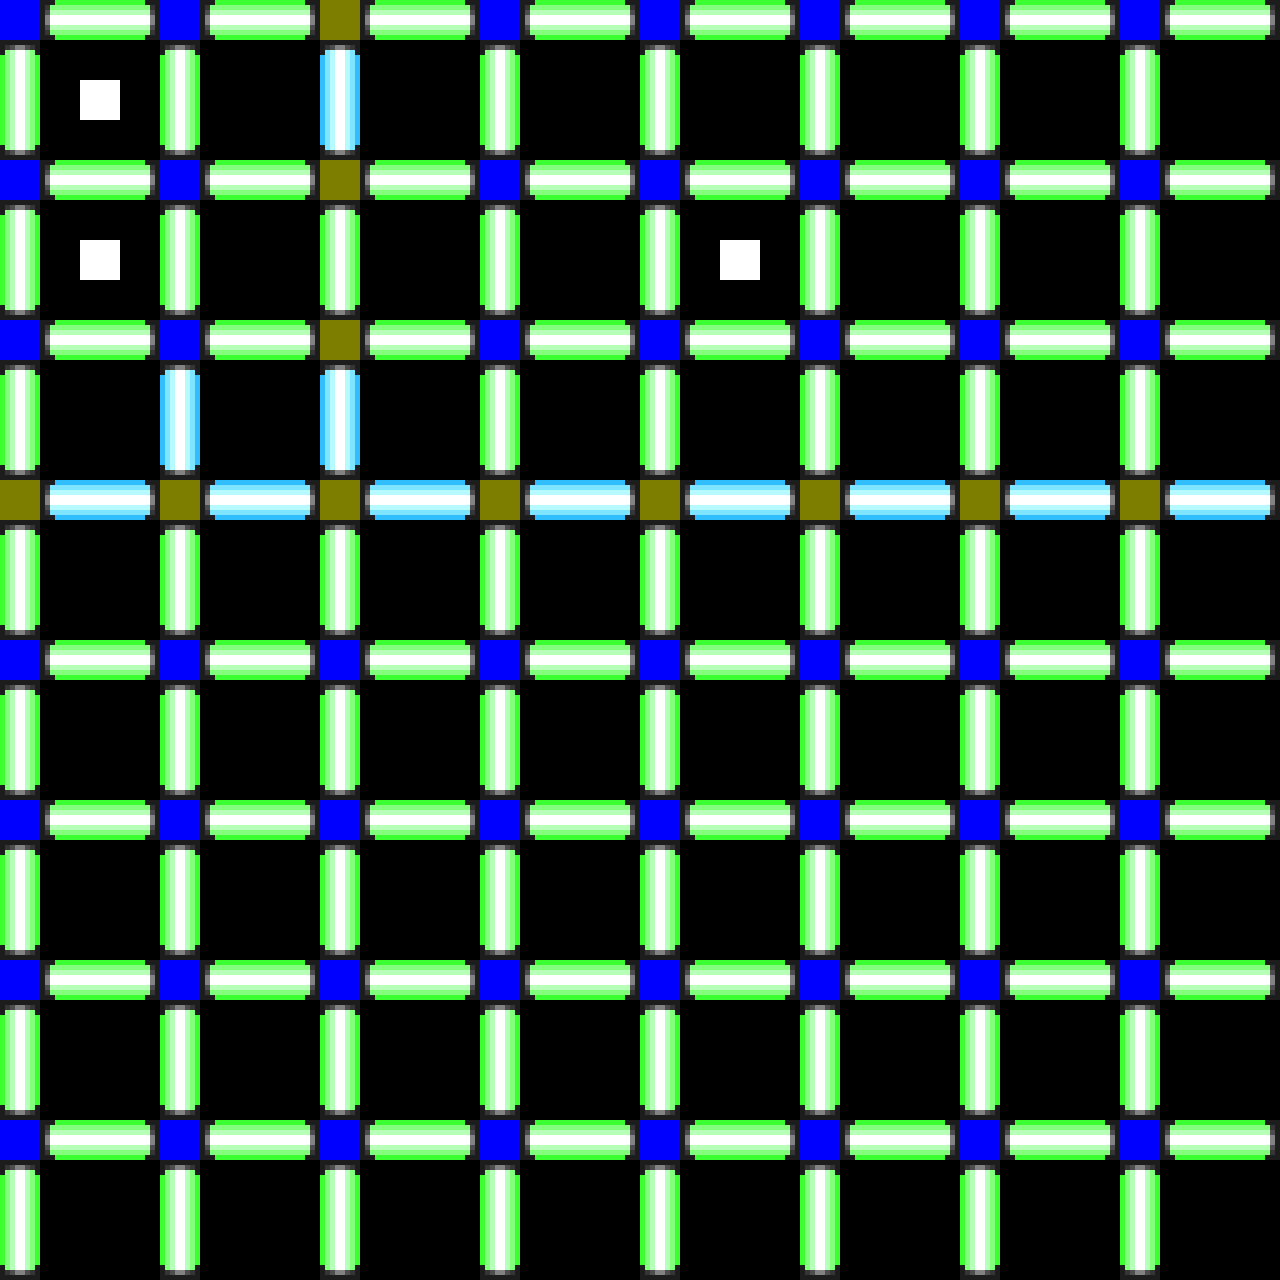
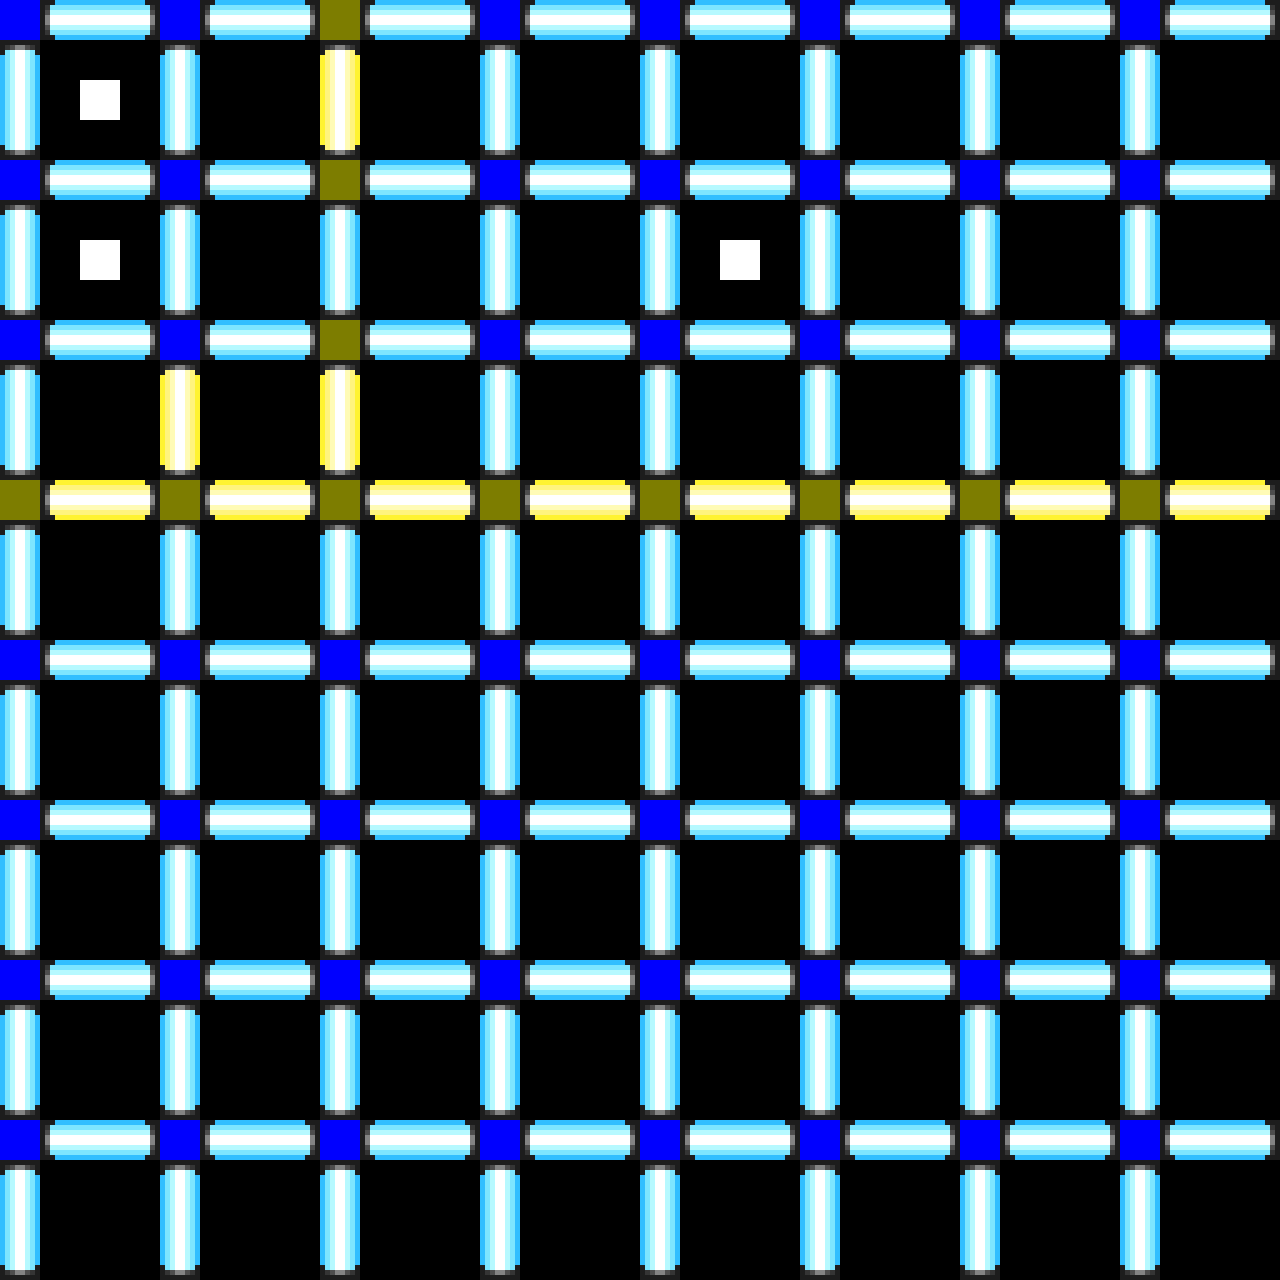
added animated player character

diff --git a/engine/player.py b/engine/player.py
@@ -19,18 +19,37 @@ class Player(object):
         self.xscale_multiplier = 1.0
         self.yscale_multiplier = 1.0
         self.mySurface = whatILookLike        
+
+        self.keyframe = 0
+        self.animation_length = 2
+        self.framecycler = 0
         
         self.subsurface_one_frame_one_rect = pg.Rect(0, 0, self.height, self.height)
         self.subsurface_one_frame_one = self.mySurface.subsurface(self.subsurface_one_frame_one_rect)
+        self.subsurface_one_frame_two_rect = pg.Rect(0, self.height, self.height, self.height)
+        self.subsurface_one_frame_two = self.mySurface.subsurface(self.subsurface_one_frame_two_rect)
 
-        self.subsurface_two_frame_one_rect = pg.Rect(self.height-1, 0, self.height, self.height)
+        self.subsurface_two_frame_one_rect = pg.Rect(2*self.height-1, 0, self.height, self.height)
         self.subsurface_two_frame_one = self.mySurface.subsurface(self.subsurface_two_frame_one_rect)
+        self.subsurface_two_frame_two_rect = pg.Rect(2*self.height-1, self.height, self.height, self.height)
+        self.subsurface_two_frame_two = self.mySurface.subsurface(self.subsurface_two_frame_two_rect)
 
-        self.subsurface_three_frame_one_rect = pg.Rect(2*self.height-1, 0, self.height, self.height)
+        self.subsurface_three_frame_one_rect = pg.Rect(3*self.height-1, 0, self.height, self.height)
         self.subsurface_three_frame_one = self.mySurface.subsurface(self.subsurface_three_frame_one_rect)
+        self.subsurface_three_frame_two_rect = pg.Rect(3*self.height-1, self.height, self.height, self.height)
+        self.subsurface_three_frame_two = self.mySurface.subsurface(self.subsurface_three_frame_two_rect)
 
-        self.subsurface_four_frame_one_rect = pg.Rect(3*self.height-1, 0, self.height, self.height)
+        self.subsurface_four_frame_one_rect = pg.Rect(1*self.height-1, 0, self.height, self.height)
         self.subsurface_four_frame_one = self.mySurface.subsurface(self.subsurface_four_frame_one_rect)
+        self.subsurface_four_frame_two_rect = pg.Rect(1*self.height-1, self.height, self.height, self.height)
+        self.subsurface_four_frame_two = self.mySurface.subsurface(self.subsurface_four_frame_two_rect)
+
+        self.p_one_animation = [self.subsurface_one_frame_one, self.subsurface_one_frame_two, True] 
+        self.p_two_animation = [self.subsurface_two_frame_one, self.subsurface_two_frame_two, True] 
+        self.p_three_animation = [self.subsurface_three_frame_one, self.subsurface_three_frame_two, True] 
+        self.p_four_animation = [self.subsurface_four_frame_one, self.subsurface_four_frame_two, True] 
+
+        self.myAnimations = [self.p_one_animation, self.p_two_animation, self.p_three_animation, self.p_four_animation]
 
         self.mySubsurfaces = [self.subsurface_one_frame_one, self.subsurface_two_frame_one, self.subsurface_three_frame_one, self.subsurface_four_frame_one]
 
@@ -113,7 +132,23 @@ class Player(object):
             ze_goggles = 'do nothing'
 
     def draw(self, myCanvas):
-        myCanvas.blit(pg.transform.scale(self.mySubsurfaces[int(self.color_mapped_subsurface[self.mystate['color']])], (int(self.width*self.xscale_multiplier), int(self.height*self.yscale_multiplier))), (self.xoffset + self.local_position[0]*self.width, self.yoffset + self.local_position[1]*self.height))
+        if self.keyframe < self.animation_length:
+            what_to_draw = pg.transform.scale(self.myAnimations[int(self.color_mapped_subsurface[self.mystate['color']])][self.keyframe],(int(self.width*self.xscale_multiplier),int(self.height*self.yscale_multiplier)))
+
+            myCanvas.blit(what_to_draw,(self.xoffset + self.local_position[0]*self.width,self.yoffset + self.local_position[1]*self.height))
+
+            if self.framecycler % 9 == 0:
+                self.keyframe += 1
+                self.framecycler = 0
+
+            self.framecycler += 1
+        elif True:
+            self.keyframe = 0
+            self.framecycler += 1
+            what_to_draw = pg.transform.scale(self.myAnimations[int(self.color_mapped_subsurface[self.mystate['color']])][self.keyframe],(int(self.width*self.xscale_multiplier),int(self.height*self.yscale_multiplier)))
+
+            myCanvas.blit(what_to_draw,(self.xoffset + self.local_position[0]*self.width,self.yoffset + self.local_position[1]*self.height))
+
 
     def map_to_statefunction(self, requested_state):
         goggles = 'do nothing'

diff --git a/engine/perspectrum.py b/engine/perspectrum.py
@@ -66,11 +66,8 @@ class Control(object):
 
         """The grid spacing depends on the screen resultion, and the number of tiles"""
         self.grid_spacing = self.screen.get_size()[0]/self.level_map.shape[1]*8
-        print self.screen.get_size()
-        print self.level_map.shape
-        print self.grid_spacing
 
-        self.playerSurface =  pg.transform.scale(pg.image.load("../data/player/player.png"), (4*self.grid_spacing, self.grid_spacing))
+        self.playerSurface =  pg.transform.scale(pg.image.load("../data/assets/ball_sheet.png"), (4*self.grid_spacing, 2*self.grid_spacing))
         self.furnatureSurface =  pg.transform.scale(pg.image.load("../data/furniture/furniture.png"), (4*self.grid_spacing, self.grid_spacing))
 
         self.clock = pg.time.Clock()
@@ -101,11 +98,11 @@ class Control(object):
 
     def map_tile_effect(self):
 
-        print str(self.level_map[self.player_one_global_position[1]*self.coordinate_multiplier + self.coordinate_multiplier/2][self.player_one_global_position[0]*self.coordinate_multiplier + self.coordinate_multiplier/2])
+        #print str(self.level_map[self.player_one_global_position[1]*self.coordinate_multiplier + self.coordinate_multiplier/2][self.player_one_global_position[0]*self.coordinate_multiplier + self.coordinate_multiplier/2])
 
         self.enable_palette_change = self.special_effect_map[str(self.level_map[self.player_one_global_position[1]*self.coordinate_multiplier + self.coordinate_multiplier/2][self.player_one_global_position[0]*self.coordinate_multiplier + self.coordinate_multiplier/2])]
 
-        print self.enable_palette_change
+        #print self.enable_palette_change
 
     def movement_refused(self):
         print "OOOFF!"
@@ -119,12 +116,12 @@ class Control(object):
                 #self.background.scroll(0, +int(self.grid_spacing))
                 self.background_position[0] += self.grid_spacing
                 self.player_one_global_position[0] -= 1
-                print "I am scrolling"
+                #print "I am scrolling"
             else:
                 self.player_one_global_position[0] -= 1
                 self.player_one_local_position[0] -= 1 
 
-            print self.player_one_local_position
+            #print self.player_one_local_position
             self.player_one.move_to_coordinates(self.player_one_local_position)
 
         else:

diff --git a/data/levels/drawlevel.py b/data/levels/drawlevel.py
@@ -110,16 +110,16 @@ p_four_level_render = pg.Surface((level_map.shape[1]*40, level_map.shape[0]*40))
 block = pg.Rect(0,0, p_one_level_render.get_width()/level_map.shape[1], p_two_level_render.get_height()/level_map.shape[0])
 
 barriers = pg.image.load("../assets/upbarrier_sheet.png")
-red_barrier_rect = pg.Rect(0,0, 8, 24)
+red_barrier_rect = pg.Rect(8,0, 8, 24)
 red_barrier = barriers.subsurface(red_barrier_rect) 
 
-green_barrier_rect = pg.Rect(8,0, 8, 24)
+green_barrier_rect = pg.Rect(16,0, 8, 24)
 green_barrier = barriers.subsurface(green_barrier_rect) 
 
-blue_barrier_rect = pg.Rect(16,0, 8, 24)
+blue_barrier_rect = pg.Rect(24,0, 8, 24)
 blue_barrier = barriers.subsurface(blue_barrier_rect) 
 
-yellow_barrier_rect = pg.Rect(24,0, 8, 24)
+yellow_barrier_rect = pg.Rect(0,0, 8, 24)
 yellow_barrier = barriers.subsurface(yellow_barrier_rect) 
 
 color_to_barrier = {'110' : red_barrier,
